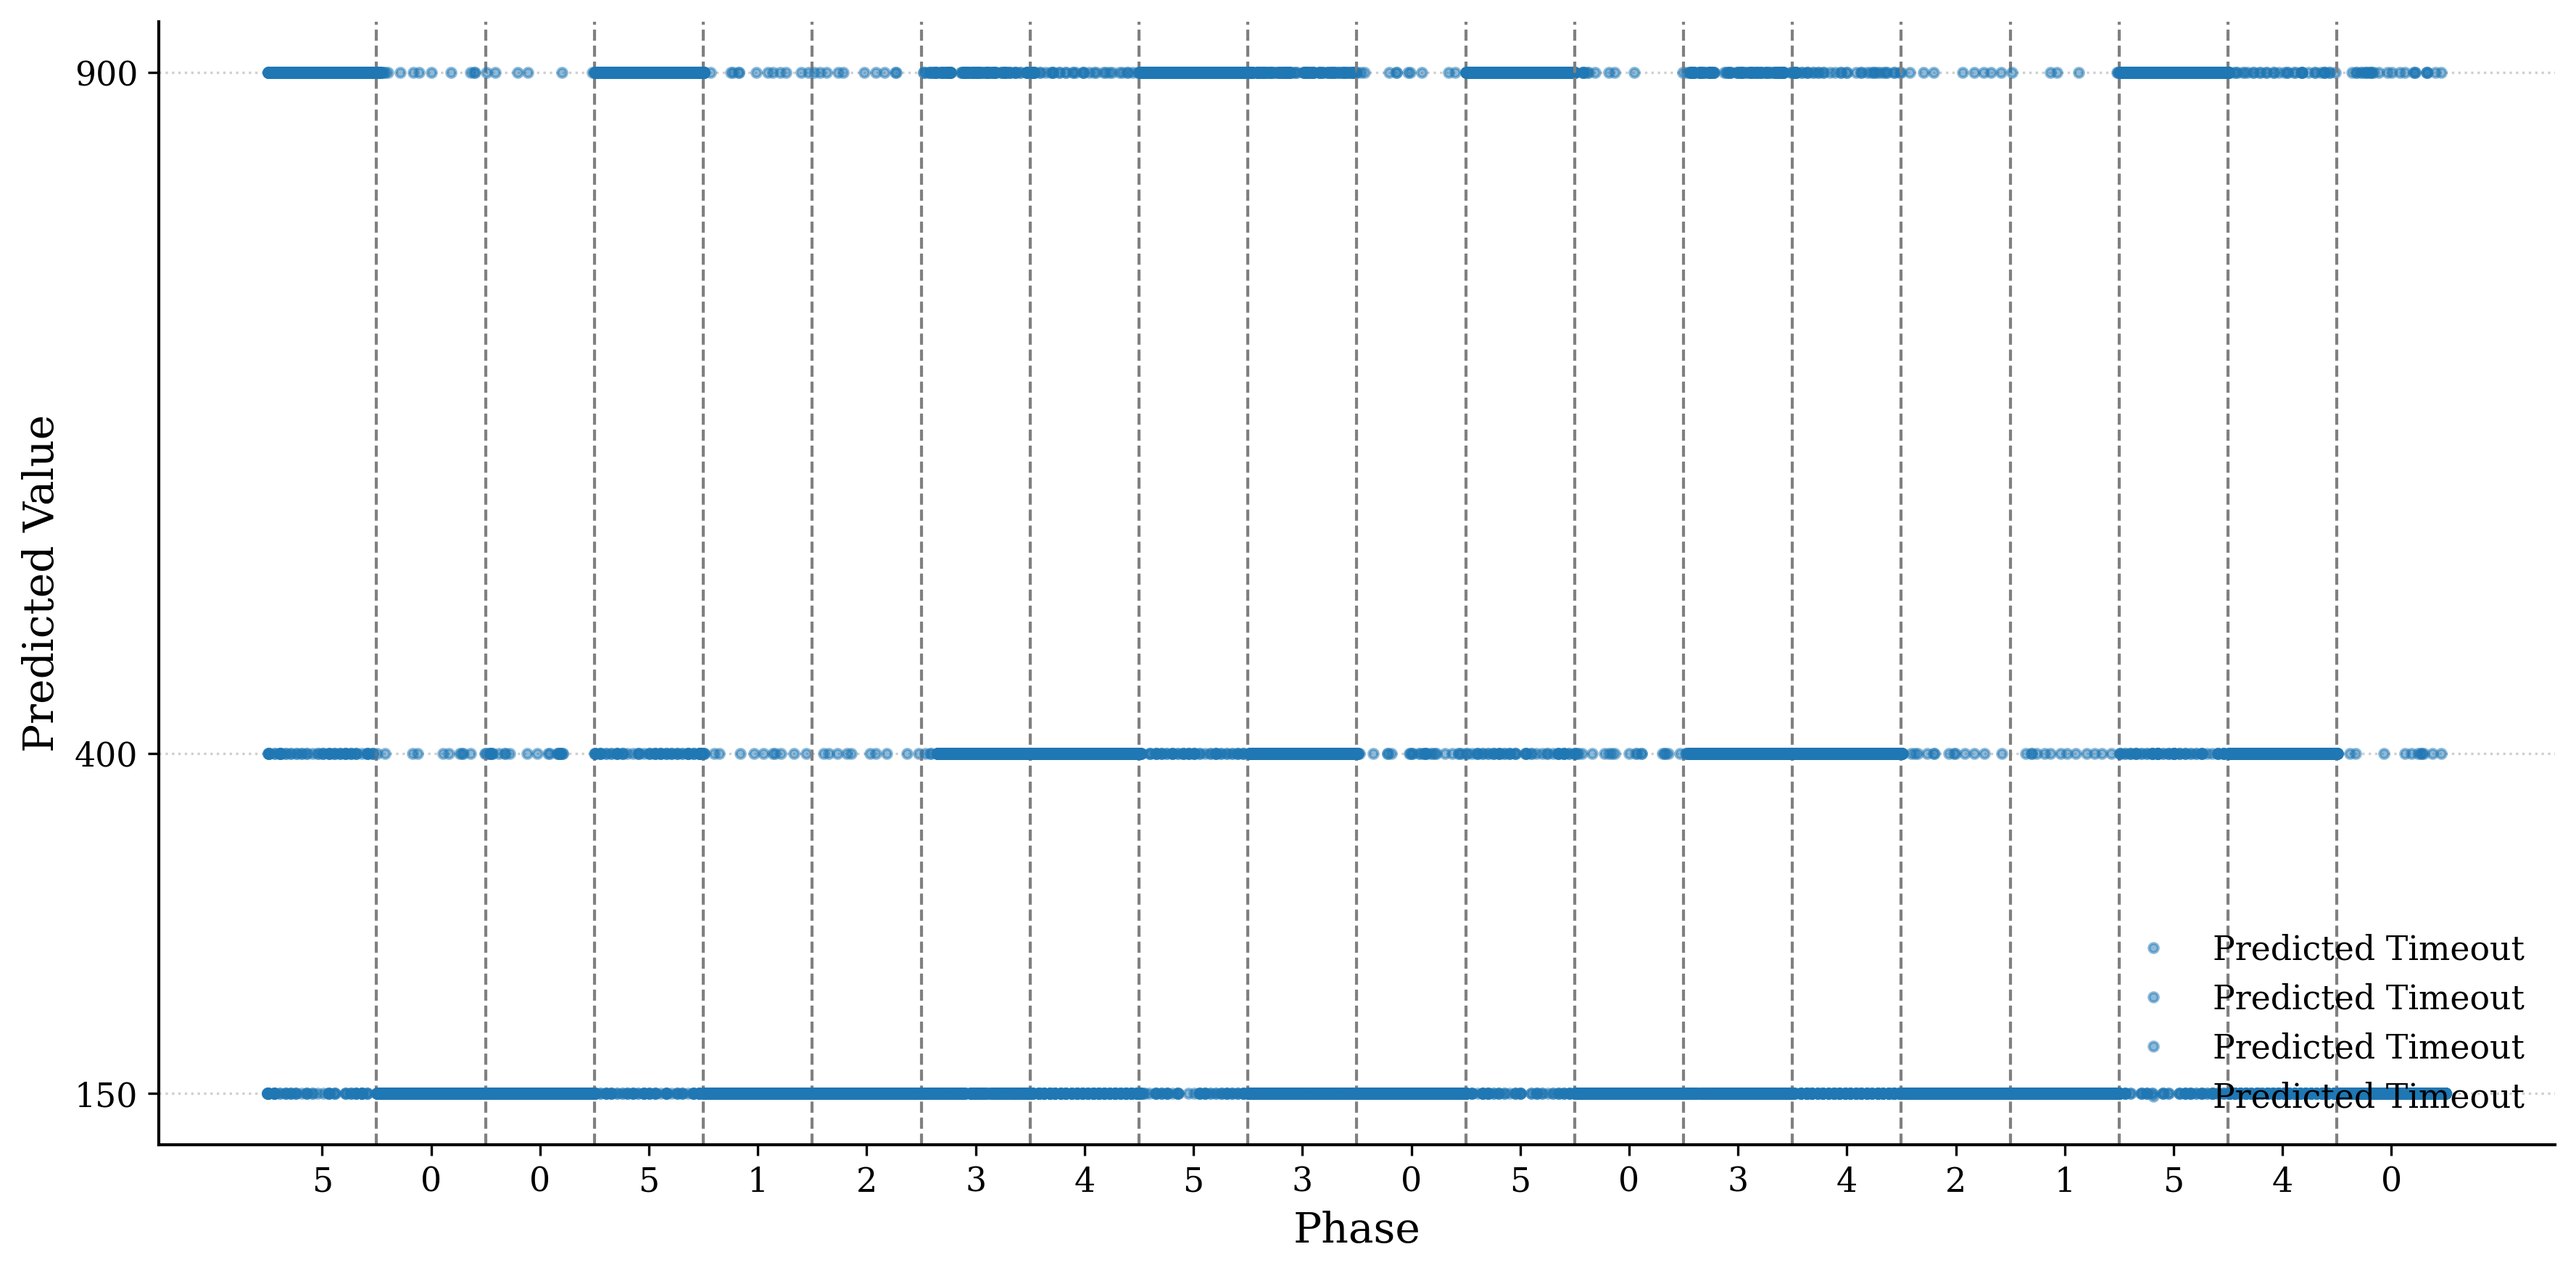
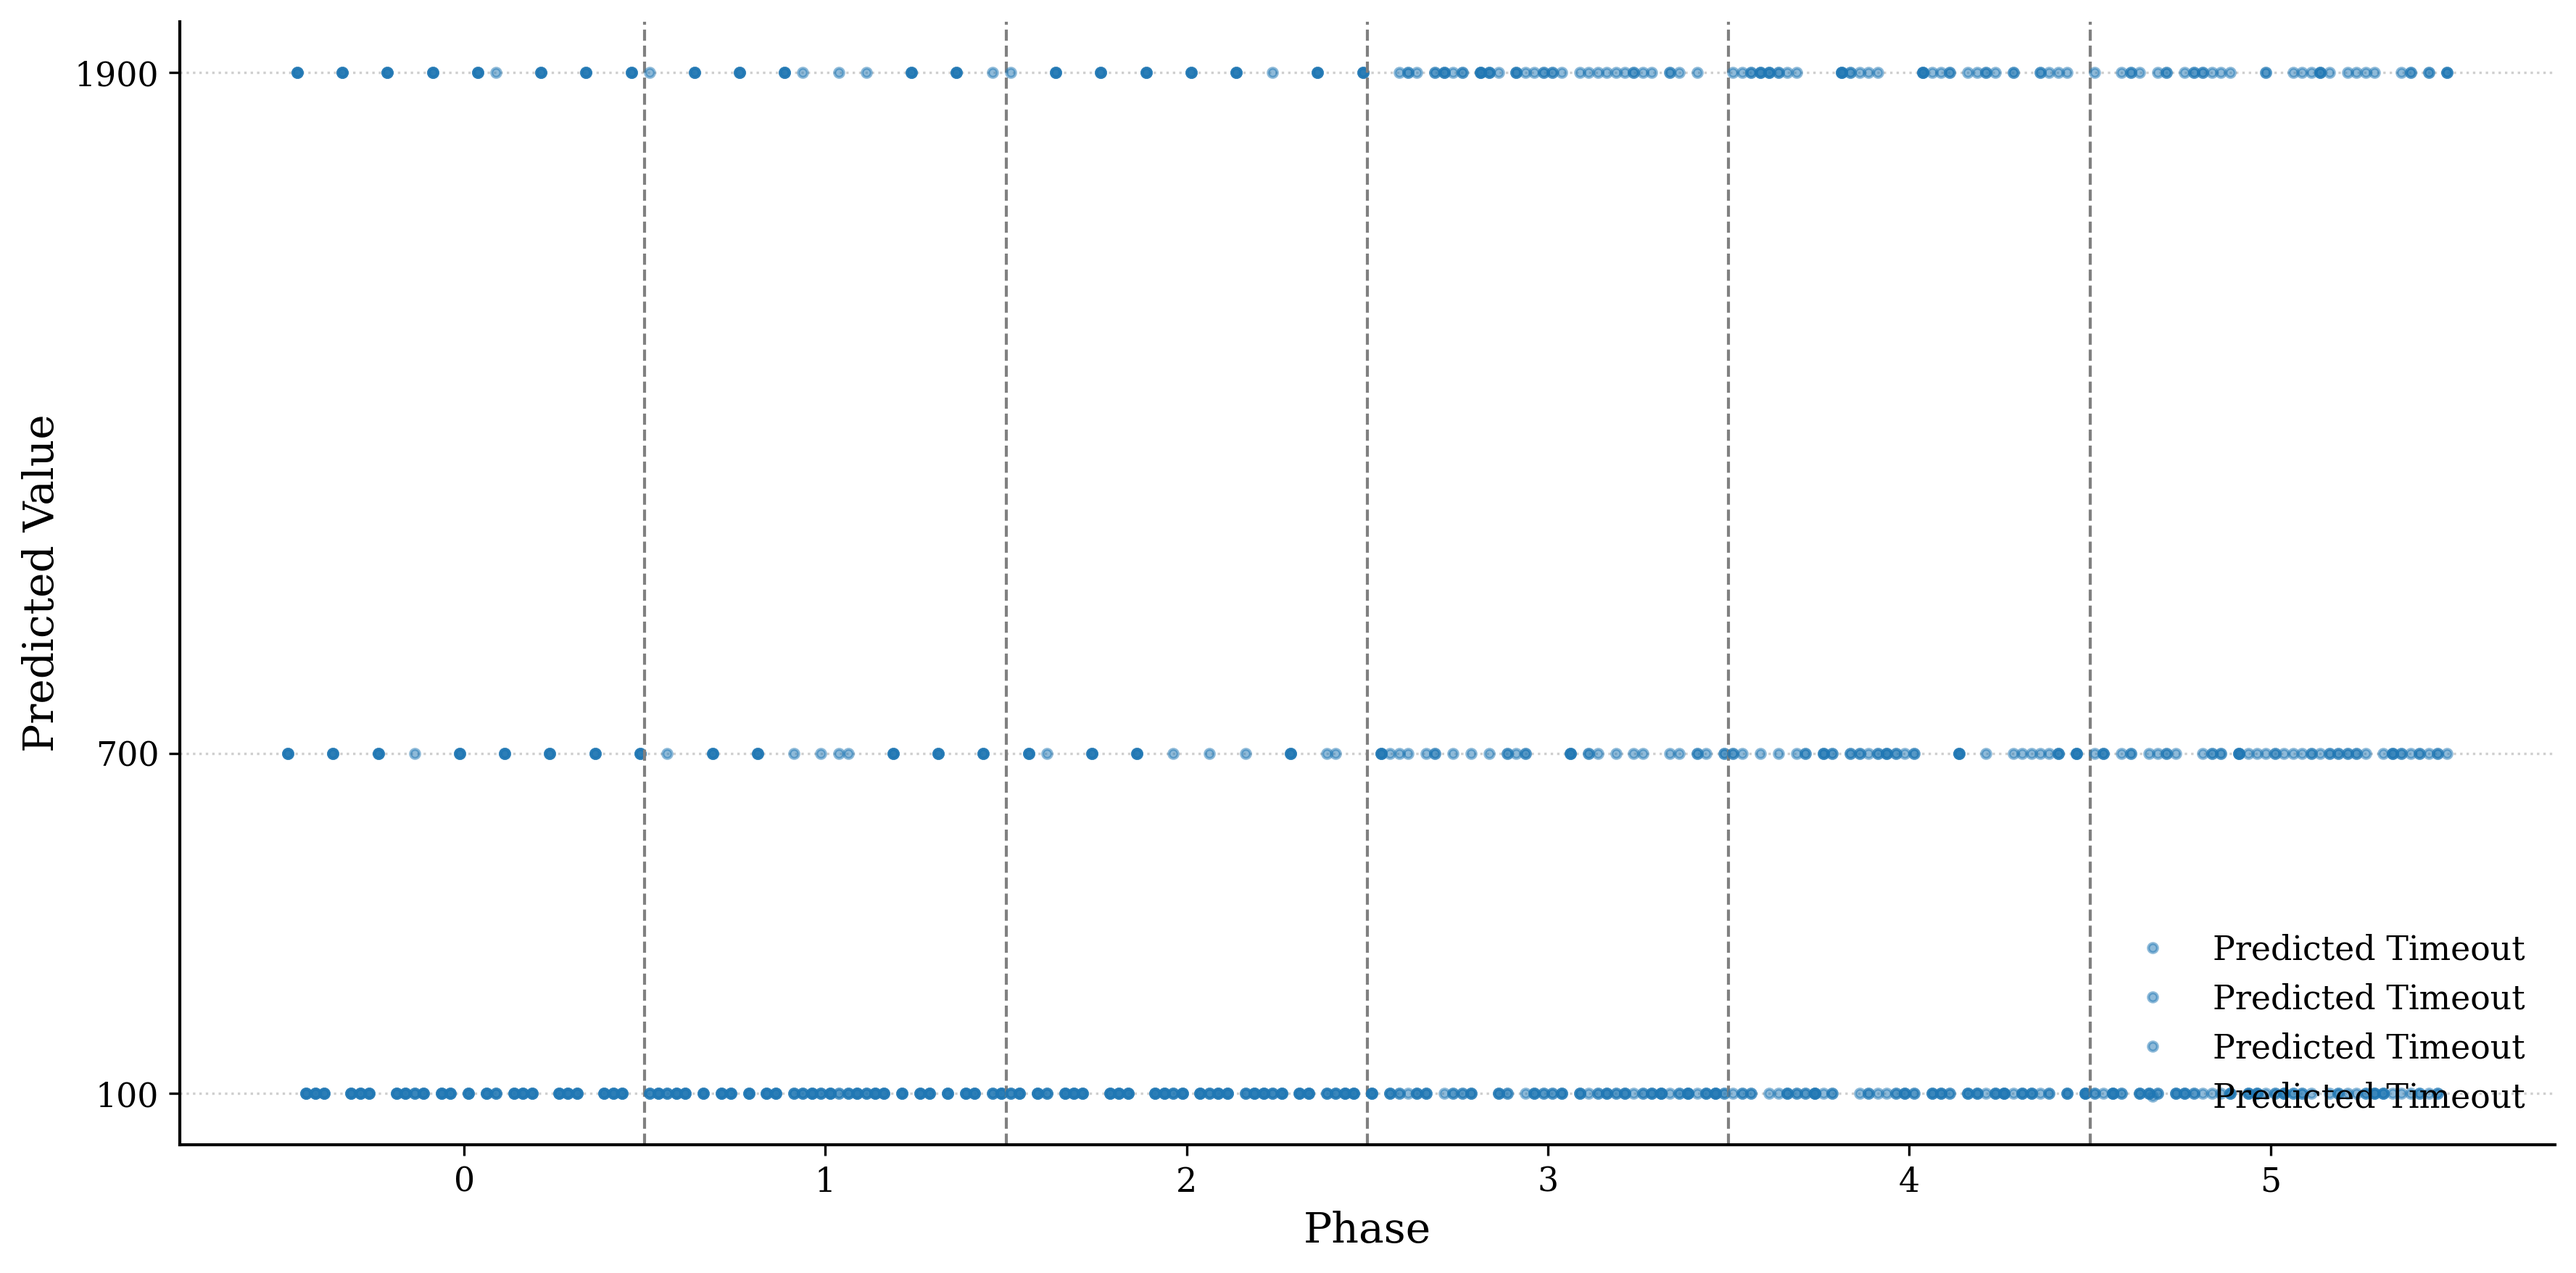
feat(models): added e-ts implementation

diff --git a/learning_agent/models.py b/learning_agent/models.py
@@ -1034,22 +1034,24 @@ class ThompsonSamplingModelOld(TensorModel):
         }
 
 
-class ThompsonSamplingModel(TensorModel): 
+class ThompsonSamplingModelv01(TensorModel):
     def __init__(
-        self, 
-        action_dim: int, 
+        self,
+        action_dim: int,
         n_features: int,
-        n_heads: int = 10,
+        n_heads: int = 100,
+        seed: Optional[int] = None,
     ):
         if action_dim <= 0:
             raise ValueError(f"action_dim must be > 0, got {action_dim}")
         if n_heads <= 0:
             raise ValueError(f"n_heads must be > 0, got {n_heads}")
-        
+
         self._act_dim = int(action_dim)
         self._obs_dim = int(n_features)
         self._n_heads = int(n_heads)
-        self._max_bucket_size = 256
+        self._max_bucket_size = 32
+        self._seed = seed
 
         self.reset_model()
 
@@ -1087,9 +1089,9 @@ class ThompsonSamplingModel(TensorModel):
         for i in range(batch_size):
             row_preds = predictions_stacked[i]
             tied_indices = np.flatnonzero(np.isclose(row_preds, np.max(row_preds)))
-            
+
             if len(tied_indices) > 1:
-                best_index = np.random.choice(tied_indices, replace=True)
+                best_index = self._rng.choice(tied_indices)
                 predictions_stacked[i, best_index] += 1e-5
 
         q_values = torch.tensor(predictions_stacked, device=features.device, dtype=torch.float32)
@@ -1137,7 +1139,14 @@ class ThompsonSamplingModel(TensorModel):
             X_actions = np.array(self.memory["actions"]).reshape(-1, 1)
             X = np.hstack((X_features, X_actions))
             y = np.array(self.memory["rewards"])
-            
+
+            # GIRO: https://arxiv.org/pdf/1811.05154
+            # Optimistic pseudo-reward is the max reward in the sliding window
+            # X = np.tile(X, (3, 1))
+            # y = np.concatenate(
+            #     [np.zeros_like(y), y, np.full_like(y, np.max(y))]
+            # )
+
             for head_index, model in enumerate(self.models):
                 idx = self._rng.choice(len(X), size=len(X), replace=True)
                 model.fit(X[idx], y[idx])
@@ -1146,12 +1155,12 @@ class ThompsonSamplingModel(TensorModel):
         return 0.0
 
     def reset_model(self) -> None:
-        self._rng = np.random.default_rng()
+        self._rng = np.random.default_rng(self._seed)
         self.models = [
             DecisionTreeRegressor(
                 criterion='squared_error',
                 max_depth=6,
-                min_samples_leaf=1,
+                min_samples_leaf=6,
                 min_impurity_decrease=0.01,
                 random_state=head_index,
             )
@@ -1167,7 +1176,162 @@ class ThompsonSamplingModel(TensorModel):
             "rewards": deque(maxlen=self._max_bucket_size)
         }
 
-class MultiHeadThompsonSamplingModel(ThompsonSamplingModel): 
+class ThompsonSamplingModel(TensorModel):
+    """Per-arm bootstrapped-tree CMAB (contextual GIRO structure).
+
+    Each arm keeps its own sliding window of (features, reward) pairs and its
+    own ensemble of trees, each head fit on a bootstrap resample of that arm's
+    window. Prediction draws one head per arm independently and the caller
+    pulls the argmax across arms.
+    """
+
+    def __init__(
+        self,
+        action_dim: int,
+        n_features: int,
+        n_heads: int = 100,
+        seed: Optional[int] = None,
+    ):
+        if action_dim <= 0:
+            raise ValueError(f"action_dim must be > 0, got {action_dim}")
+        if n_heads <= 0:
+            raise ValueError(f"n_heads must be > 0, got {n_heads}")
+
+        self._act_dim = int(action_dim)
+        self._obs_dim = int(n_features)
+        self._n_heads = int(n_heads)
+        self._max_bucket_size = 32
+        self._seed = seed
+
+        self.reset_model()
+
+    def predict_action(self, features: torch.Tensor, e = 0.35) -> torch.Tensor:
+        """e-TS: with probability e take the Thompson draw (one bootstrap head
+        per arm); with probability 1-e exploit the arm with the highest
+        empirical mean over its reward sliding window."""
+        features_np = features.cpu().numpy()
+        if features_np.ndim == 1:
+            features_np = features_np.reshape(1, -1)
+
+        batch_size = features_np.shape[0]
+        predictions_stacked = np.zeros((batch_size, self._act_dim), dtype=float)
+        # One independent head (bootstrap draw) per arm, per row.
+        sampled_heads = self._rng.integers(
+            0, self._n_heads, size=(batch_size, self._act_dim)
+        )
+        explore = self._rng.random(batch_size) < e
+
+        for i in range(batch_size):
+            row = features_np[i : i + 1]
+            for arm in range(self._act_dim):
+                if not self.is_fitted[arm]:
+                    # Arm without a fitted window yet: force a pull.
+                    predictions_stacked[i, arm] = 1e9
+                    continue
+                if explore[i]:
+                    head = self.models[arm][sampled_heads[i, arm]]
+                    predictions_stacked[i, arm] = head.predict(row)[0]
+                else:
+                    predictions_stacked[i, arm] = float(
+                        np.mean(self.memory[arm]["rewards"])
+                    )
+
+        for i in range(batch_size):
+            row_preds = predictions_stacked[i]
+            tied_indices = np.flatnonzero(np.isclose(row_preds, np.max(row_preds)))
+
+            if len(tied_indices) > 1:
+                best_index = self._rng.choice(tied_indices)
+                predictions_stacked[i, best_index] += 1e-5
+
+        q_values = torch.tensor(predictions_stacked, device=features.device, dtype=torch.float32)
+        return q_values
+
+    def update_model(
+        self, features: torch.Tensor, actions: torch.Tensor, rewards: torch.Tensor | float, backward: bool = True
+    ) -> float:
+        features_np = features.cpu().numpy()
+        if features_np.ndim == 1:
+            features_np = features_np.reshape(1, -1)
+            
+        if isinstance(actions, torch.Tensor):
+            actions_np = actions.cpu().numpy().astype(int).flatten()
+        else:
+            actions_np = np.array([int(actions)])
+            
+        if isinstance(rewards, torch.Tensor):
+            rewards_np = rewards.cpu().numpy().flatten()
+        else:
+            rewards_np = np.full(len(actions_np), float(rewards))
+
+        if len(actions_np) == 1 and features_np.shape[0] > 1:
+            actions_np = np.repeat(actions_np, features_np.shape[0])
+        if len(rewards_np) == 1 and features_np.shape[0] > 1:
+            rewards_np = np.repeat(rewards_np, features_np.shape[0])
+        if len(actions_np) != features_np.shape[0]:
+            raise ValueError(
+                "actions batch size mismatch: "
+                f"expected {features_np.shape[0]}, got {len(actions_np)}"
+            )
+        if len(rewards_np) != features_np.shape[0]:
+            raise ValueError(
+                "rewards batch size mismatch: "
+                f"expected {features_np.shape[0]}, got {len(rewards_np)}"
+            )
+
+        for i in range(len(actions_np)):
+            arm = int(actions_np[i])
+            if not 0 <= arm < self._act_dim:
+                raise ValueError(f"action out of range: {arm}")
+            self.memory[arm]["features"].append(features_np[i])
+            self.memory[arm]["rewards"].append(rewards_np[i])
+
+        if backward:
+            window_max = max(
+                (max(m["rewards"]) for m in self.memory if m["rewards"]),
+                default=0.0,
+            )
+                                    
+            for arm in sorted({int(a) for a in actions_np}):
+                X = np.array(self.memory[arm]["features"])
+                y = np.array(self.memory[arm]["rewards"])
+
+                            
+                for model in self.models[arm]:
+                    idx = self._rng.choice(len(X), size=len(X), replace=True)
+                    model.fit(X[idx], y[idx])
+                self.is_fitted[arm] = True
+
+        return 0.0
+
+    def reset_model(self) -> None:
+        self._rng = np.random.default_rng(self._seed)
+        self.models = [
+            [
+                DecisionTreeRegressor(
+                    criterion='squared_error',
+                    max_depth=6,
+                    min_samples_leaf=6,
+                    min_impurity_decrease=0.01,
+                    random_state=arm_index * self._n_heads + head_index,
+                )
+                for head_index in range(self._n_heads)
+            ]
+            for arm_index in range(self._act_dim)
+        ]
+        self.is_fitted = [False] * self._act_dim
+        self._init_buckets()
+
+    def _init_buckets(self):
+        self.memory = [
+            {
+                "features": deque(maxlen=self._max_bucket_size),
+                "rewards": deque(maxlen=self._max_bucket_size),
+            }
+            for _ in range(self._act_dim)
+        ]
+
+class MultiHeadThompsonSamplingModel(ThompsonSamplingModel):
     """Backward-compatible name for the bootstrapped ensemble CMAB model."""
 
     def __init__(

diff --git a/learning_agent/simulator.py b/learning_agent/simulator.py
@@ -510,9 +510,8 @@ def plot_prediction_phases(data_dict: Dict[Tuple[int, str], List[float]], save_p
     plt.close(fig)
 
 def main() -> None:
-    set_seed(11)
-
     args = _build_parser().parse_args()
+    set_seed(args.seed)
     print(f'Initiating Experiment [Model:] {args.model} [Protocol:] {args.protocol} [Phases:] {args.phases} ')
 
     # 1. Initialization
@@ -522,7 +521,13 @@ def main() -> None:
     )
     scaler = QuadraticRewardScaler.transform if args.reward_scaler == "quadratic" else None
 
-    if args.model in (ThompsonSamplingModel, ThompsonSamplingModelOld):
+    if args.model is ThompsonSamplingModel:
+        model = args.model(
+            action_dim=get_action_space_size(_parse_protocol(args.protocol)),
+            n_features=get_report_feature_dim(_parse_protocol(args.protocol)),
+            seed=args.seed,
+        )
+    elif args.model is ThompsonSamplingModelOld:
         model = args.model(
             action_dim=get_action_space_size(_parse_protocol(args.protocol)),
             n_features=get_report_feature_dim(_parse_protocol(args.protocol)),

diff --git a/learning_agent/main.py b/learning_agent/main.py
@@ -1690,6 +1690,7 @@ def serve(
         model = ThompsonSamplingModel(
             action_dim=get_action_space_size(protocol),
             n_features=get_report_feature_dim(protocol),
+            seed=42,
         )
     elif model_type == "cmab_old":
         model = ThompsonSamplingModelOld(
